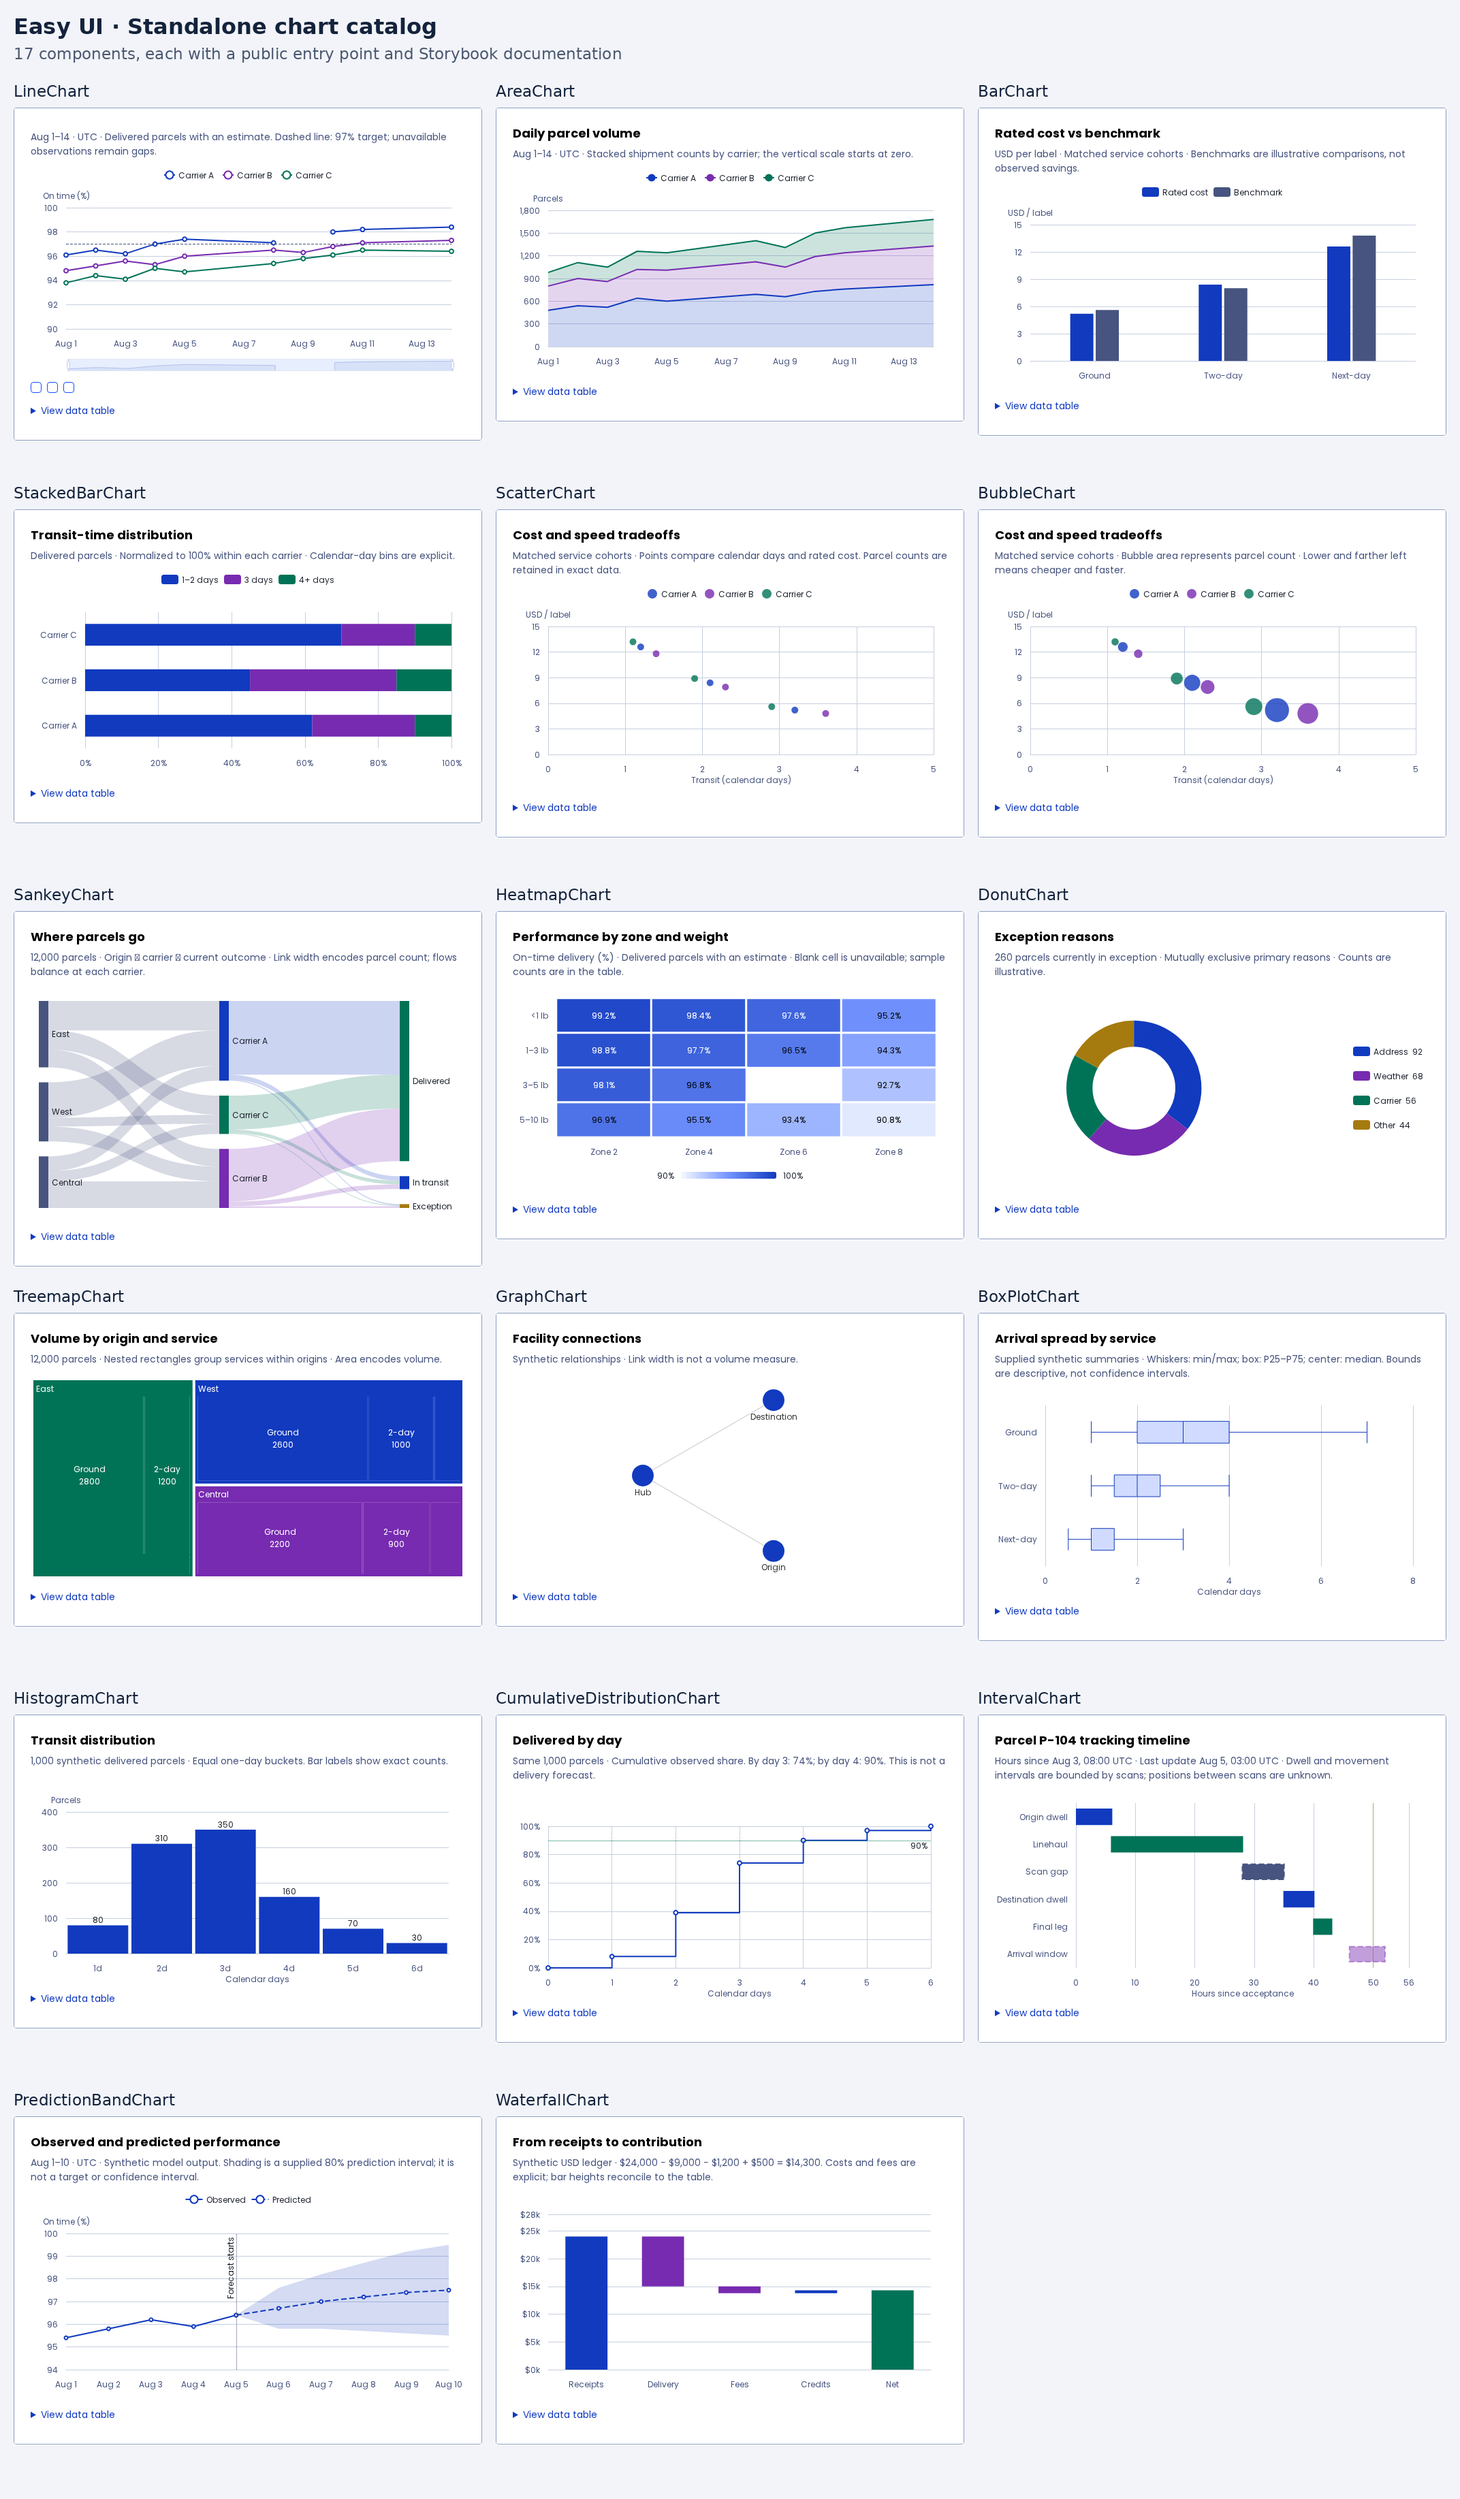
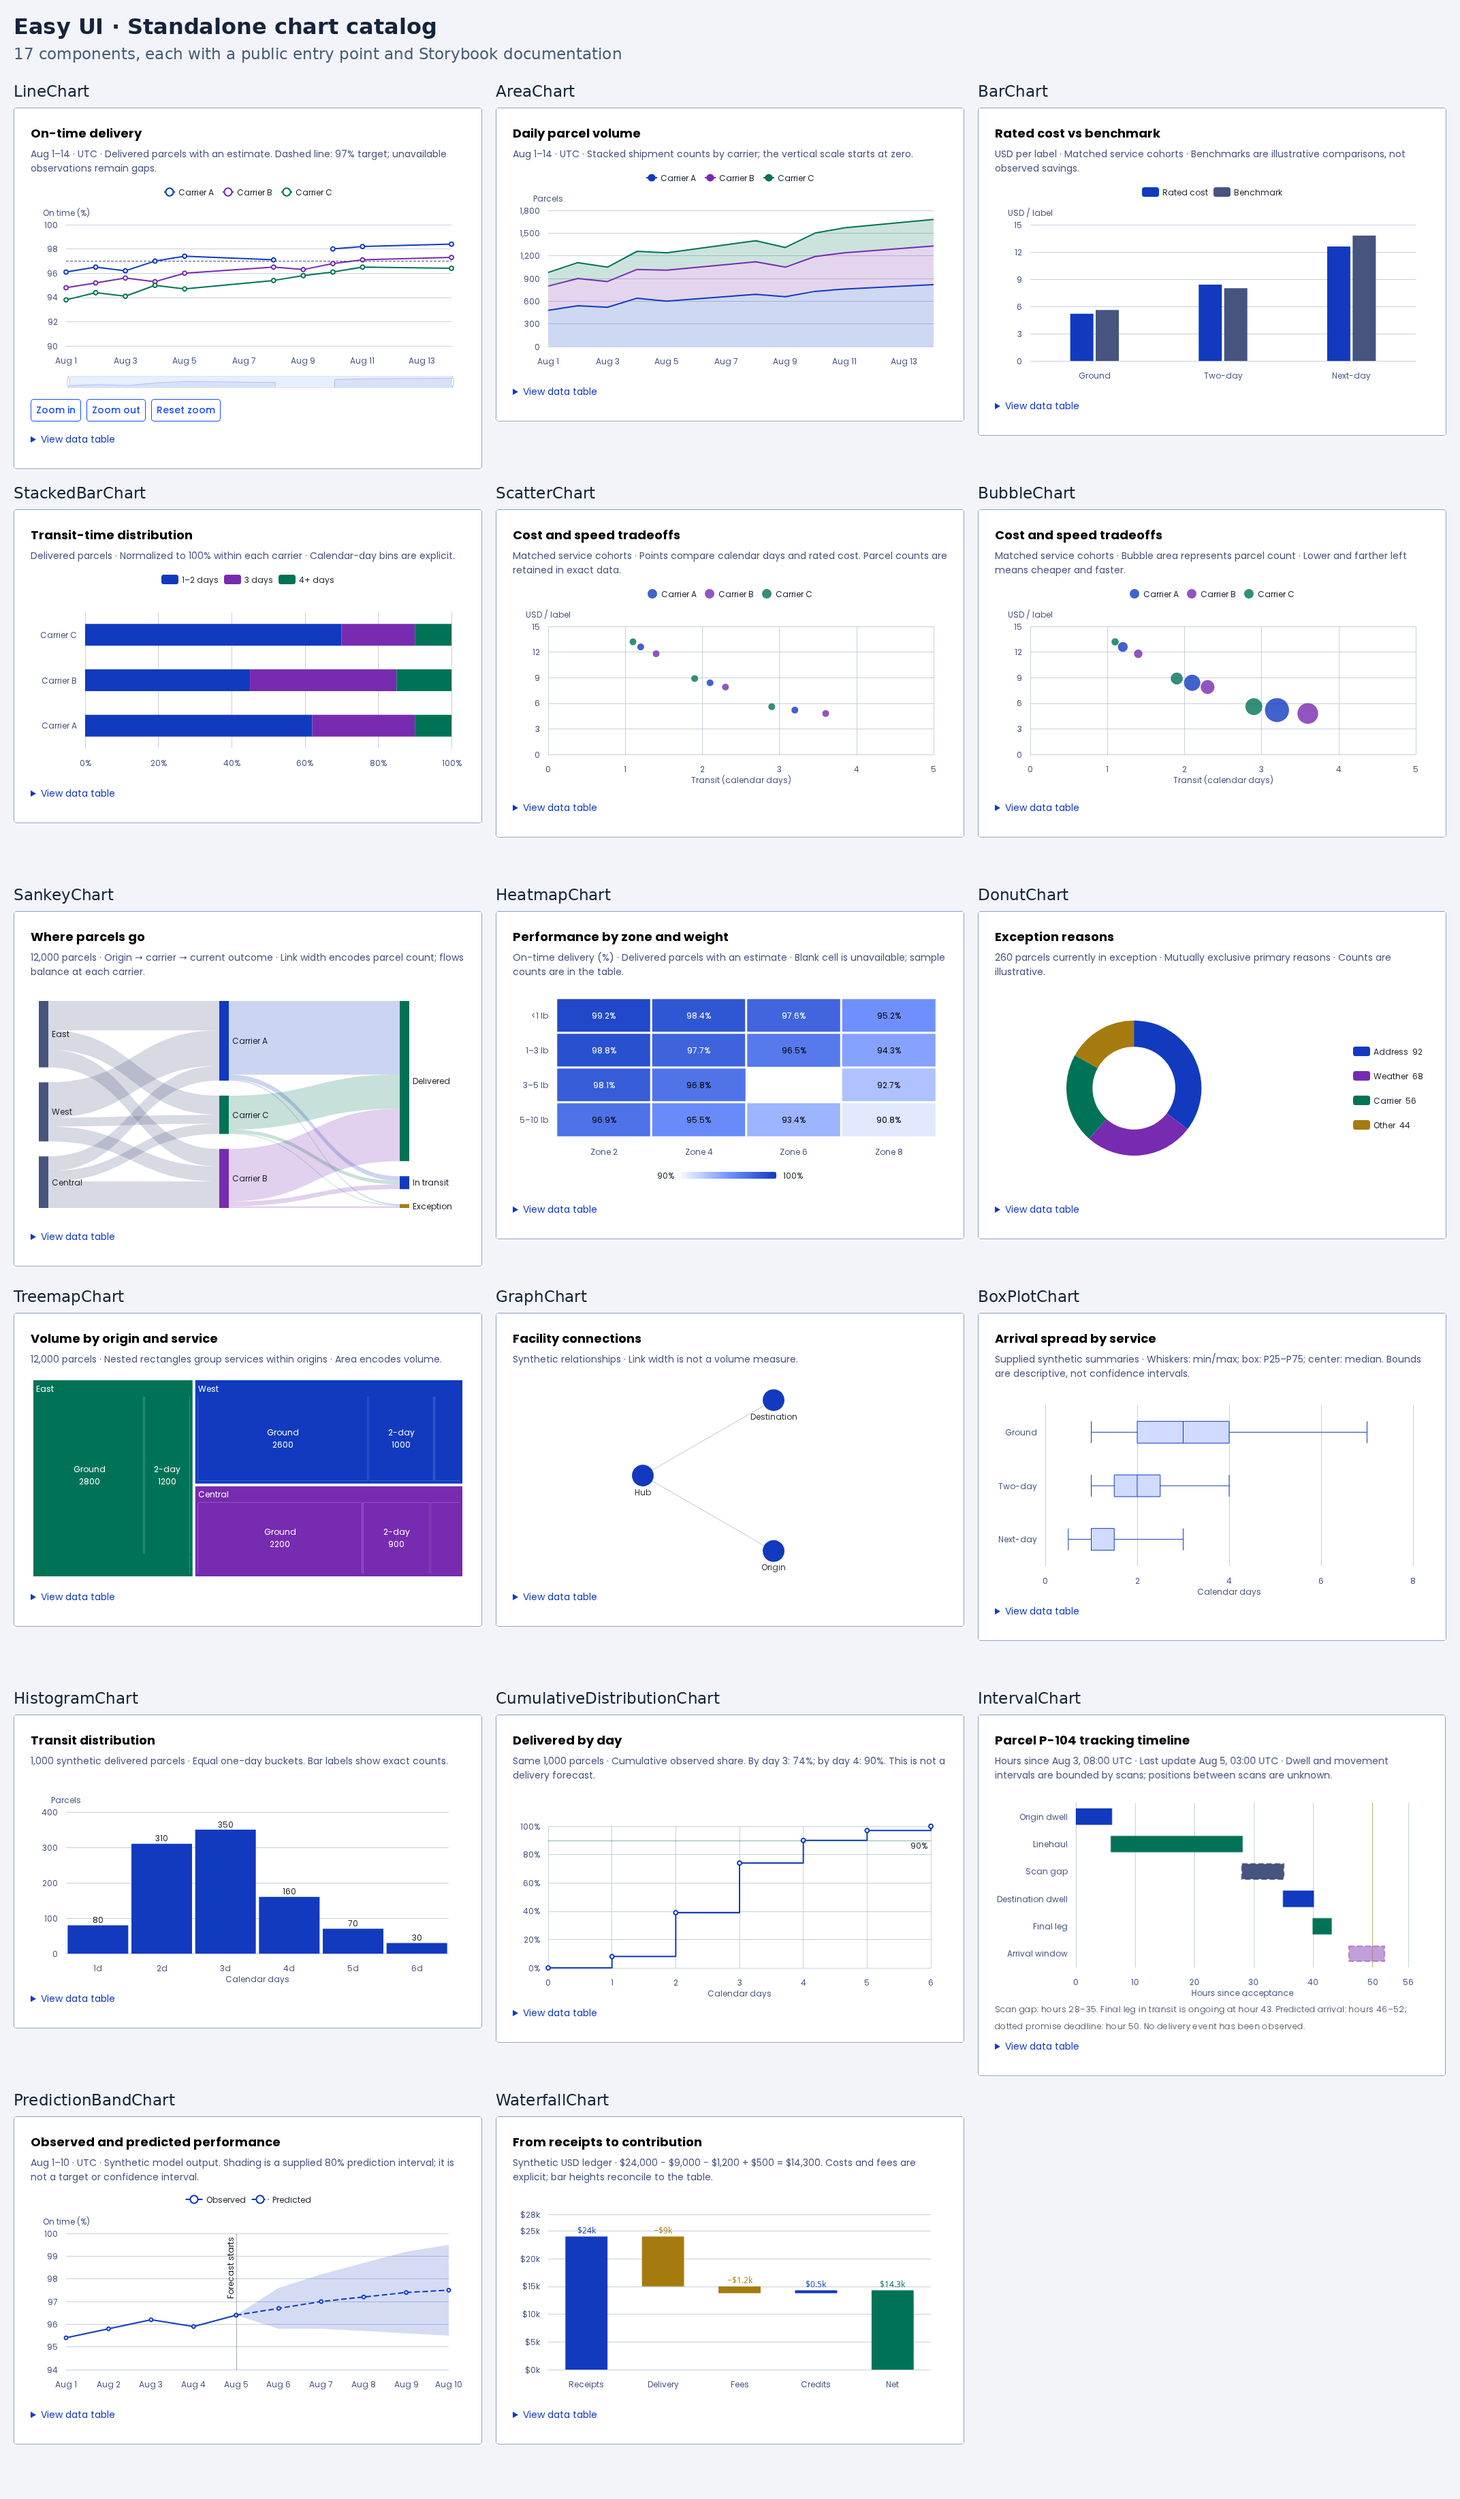
fix(charts): preserve gallery semantics and modular rendering

Changed region(s): [[0.0312, 0.0311, 0.3125, 0.1864], [0.4375, 0.8698, 0.4688, 0.9319], [0.7812, 0.6834, 0.8125, 0.7144]]

diff --git a/easy-ui-react/src/Chart/patternChart.fixtures.ts b/easy-ui-react/src/Chart/patternChart.fixtures.ts
@@ -1,4 +1,8 @@
-import type { BarSeriesOption, LineSeriesOption } from "echarts";
+import type {
+  BarSeriesOption,
+  DefaultLabelFormatterCallbackParams,
+  LineSeriesOption,
+} from "echarts";
 import {
   forecast,
   bridge,
@@ -45,9 +49,24 @@ export const predictionBandProps: PredictionBandChartProps = {
 };
 export const waterfallProps: WaterfallChartProps = {
   ...waterfallExample,
+  decreaseItemStyle: { color: visualizationColors.warning },
   option: {
     ...withoutSeries(waterfallExample.option),
-    tooltip: { trigger: "item" },
+    tooltip: {
+      trigger: "item",
+      formatter: (
+        params:
+          | DefaultLabelFormatterCallbackParams
+          | DefaultLabelFormatterCallbackParams[],
+      ) => {
+        const item = Array.isArray(params) ? params[0] : params;
+        const step = bridge[item.dataIndex];
+        const money = (value: number) => `$${value.toLocaleString("en-US")}`;
+        return step
+          ? `${step.name}: ${money(step.change)}\nBalance: ${money(step.after)}`
+          : `Net contribution: ${money(bridge[bridge.length - 1].after)}`;
+      },
+    },
   },
   steps: bridge.map((step) => ({
     id: step.name,
@@ -62,7 +81,7 @@ export const intervalProps: IntervalChartProps = {
   ...shipmentTimelineExample,
   option: {
     ...withoutSeries(shipmentTimelineExample.option),
-    tooltip: { trigger: "item" },
+    tooltip: { ...shipmentTimelineExample.option.tooltip, trigger: "item" },
   },
   intervalSeries: {
     markLine: (shipmentTimelineExample.option.series as BarSeriesOption[])[1]
@@ -89,7 +108,7 @@ export const warehouseIntervalProps: IntervalChartProps = {
   option: {
     ...withoutSeries(warehouseProgressExample.option),
     legend: { show: false },
-    tooltip: { trigger: "item" },
+    tooltip: warehouseProgressExample.option.tooltip,
   },
   intervalSeries: {
     markLine: (warehouseProgressExample.option.series as BarSeriesOption[])[3]

diff --git a/easy-ui-react/src/WaterfallChart/WaterfallChart.tsx b/easy-ui-react/src/WaterfallChart/WaterfallChart.tsx
@@ -1,5 +1,5 @@
 import React from "react";
-import type { CustomSeriesRenderItem } from "echarts";
+import type { CustomSeriesOption, CustomSeriesRenderItem } from "echarts";
 import { Chart, type ChartProps, type ChartOption } from "../Chart";
 import { verticalInterval } from "../Chart/intervalRenderer";
 import { visualizationColors } from "../visualization/colors";
@@ -13,6 +13,9 @@ export type WaterfallChartProps = Omit<ChartProps, "option"> & {
   /** Show signed changes and the final balance as direct labels. */
   showValues?: boolean;
   formatValue?: (value: number) => string;
+  increaseItemStyle?: CustomSeriesOption["itemStyle"];
+  decreaseItemStyle?: CustomSeriesOption["itemStyle"];
+  totalItemStyle?: CustomSeriesOption["itemStyle"];
   option?: Omit<ChartOption, "series">;
 };
 
@@ -23,6 +26,9 @@ export function WaterfallChart({
   totalLabel = "Total",
   showValues = false,
   formatValue = String,
+  increaseItemStyle,
+  decreaseItemStyle,
+  totalItemStyle,
   option,
   dataTable,
   typography,
@@ -94,13 +100,17 @@ export function WaterfallChart({
                     step.change < 0
                       ? visualizationColors.secondary
                       : visualizationColors.primary,
+                  ...(step.change < 0 ? decreaseItemStyle : increaseItemStyle),
                 },
               })),
               {
                 id: totalId,
                 name: totalLabel,
                 value: [steps.length, 0, balance, balance],
-                itemStyle: { color: visualizationColors.tertiary },
+                itemStyle: {
+                  color: visualizationColors.tertiary,
+                  ...totalItemStyle,
+                },
               },
             ],
           },

diff --git a/easy-ui-react/src/Chart/chartCatalog.examples.tsx b/easy-ui-react/src/Chart/chartCatalog.examples.tsx
@@ -126,7 +126,7 @@ export function ChartExample({
       <WaterfallChart
         {...waterfallProps}
         {...chartProps}
-        option={{ ...option, tooltip: { trigger: "item" } }}
+        option={{ ...option, tooltip: waterfallProps.option?.tooltip }}
       />
     );
   if (example === shipmentTimelineExample)
@@ -134,7 +134,7 @@ export function ChartExample({
       <IntervalChart
         {...intervalProps}
         {...chartProps}
-        option={{ ...option, tooltip: { trigger: "item" } }}
+        option={{ ...option, tooltip: intervalProps.option?.tooltip }}
       />
     );
   if (example === warehouseProgressExample)
@@ -145,7 +145,7 @@ export function ChartExample({
         option={{
           ...option,
           legend: { show: false },
-          tooltip: { trigger: "item" },
+          tooltip: warehouseIntervalProps.option?.tooltip,
         }}
       />
     );

diff --git a/scripts/preview-metrics/modular/README.md b/scripts/preview-metrics/modular/README.md
@@ -6,13 +6,13 @@ The public `Chart` and `ChartSurface` keep the optional, lazy full-engine loader
 
 ## Registrations
 
-`portfolio.mjs` registers eight series: line, bar, scatter, pie, Sankey, treemap, heatmap, and boxplot. Areas, scenarios, histograms, cumulative distributions, prediction bands, and waterfalls compose those series using the existing fixtures.
+`portfolio.mjs` registers nine series: line, bar, scatter, pie, Sankey, treemap, heatmap, boxplot, and custom. Areas, scenarios, histograms, and cumulative distributions compose native series. The extracted interval, prediction-band, and waterfall components own custom geometry.
 
 It also registers Cartesian grids, plain/scroll legends, tooltips, inside/slider zoom, mark lines/areas/points, continuous visual maps, label layout, legacy `containLabel` support, and both renderers. Easy UI provides independently placeable headings, zoom controls, and exact tables; the full `Chart` composes these companions. The preset retains ECharts' native Sankey adjacency emphasis and Canvas support.
 
 Other series and components are intentionally absent: for example, radar, gauge, graph, calendar, timeline, toolbox, dataset transforms, piecewise visual maps, ARIA decals, and universal transitions. Register them when the application needs them. Our exact-table accessibility path remains unchanged; this experiment adds no graphical accessibility claims.
 
-All 24 recipes use the eight-series preset. Geographic maps are included in the same PR with a separate map preview and optional MapLibre dependency; the chart gallery contains no map recipes or basemap data.
+All 24 recipes use the nine-series preset. Geographic maps are included in the same PR with a separate map preview and optional MapLibre dependency; the chart gallery contains no map recipes or basemap data.
 
 `trend.mjs` is a separate engine-only size probe for an SVG time-series screen with labels, annotations, and zoom. It is not used for the gallery or claimed to support the full portfolio.
 
